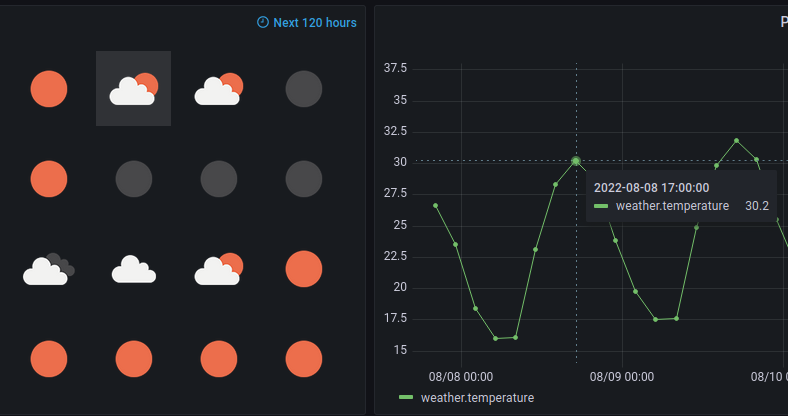
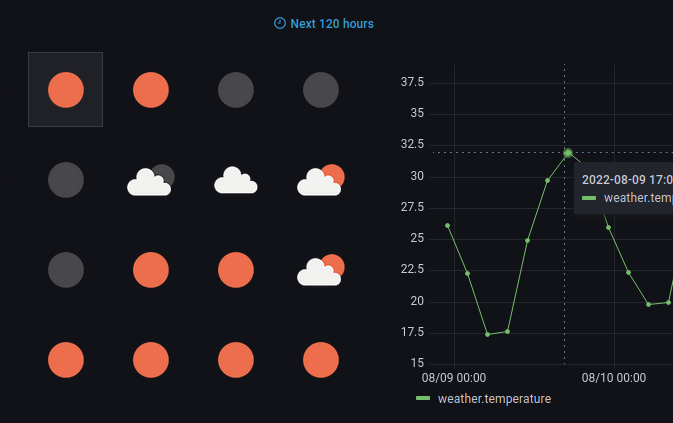
Improve shared crosshair (#53)
* Add border

* Improve and fix shared crosshair

diff --git a/src/DynamicImagePanel.tsx b/src/DynamicImagePanel.tsx
@@ -31,6 +31,7 @@ interface Value {
   icon: string;
   alt: string;
   backgroundColor: string;
+  borderColor: string;
   link?: string | undefined;
   tooltip?: string | undefined;
   overlay?: string | number | undefined;
@@ -87,7 +88,7 @@ export function DynamicImagePanel(props: Props) {
   const [hooverTime, setHooverTime] = useState<number | undefined>();
   const { eventBus } = usePanelContext();
   useEffect(() => {
-    const setHighlightedSlice = (event: DataHoverEvent) => {
+    const setHighlightTime = (event: DataHoverEvent) => {
       const rowIndex = event.payload?.rowIndex as number;
       const timeField: Field | undefined = getTimeField(event.payload?.data?.fields);
       let time = undefined;
@@ -97,13 +98,13 @@ export function DynamicImagePanel(props: Props) {
       setHooverTime(time);
     };
 
-    const resetHighlightedSlice = (event: DataHoverClearEvent) => {
+    const resetHighlightTime = (event: DataHoverClearEvent) => {
       setHooverTime(undefined);
     };
 
     const subs = new Subscription();
-    subs.add(eventBus.getStream(DataHoverEvent).subscribe({ next: setHighlightedSlice }));
-    subs.add(eventBus.getStream(DataHoverClearEvent).subscribe({ next: resetHighlightedSlice }));
+    subs.add(eventBus.getStream(DataHoverEvent).subscribe({ next: setHighlightTime }));
+    subs.add(eventBus.getStream(DataHoverClearEvent).subscribe({ next: resetHighlightTime }));
 
     return () => {
       subs.unsubscribe();
@@ -166,9 +167,11 @@ export function DynamicImagePanel(props: Props) {
       ? getFieldIndex(options.open_url.metric_field, data.series[0].fields, data.series[0])
       : -1;
 
+  // To not mess up with tooltip
+  let hoover_time_index = getTimeFieldIndex(data.series[0].fields);
+
   // Find time field for tooltip (if no tooltip or if it doesn't include time, use icon field as we don't care about values)
-  let time_index =
-    options.tooltip && options.tooltip_include_date ? getTimeFieldIndex(data.series[0].fields) : icon_index;
+  let time_index = options.tooltip && options.tooltip_include_date ? hoover_time_index : icon_index;
   if (time_index === -1) {
     console.error('Missing time field from data for tooltip');
     throw new Error("Can't find time field for tooltip.");
@@ -216,16 +219,19 @@ export function DynamicImagePanel(props: Props) {
   let values: Value[] = [];
   for (let i = 0; i < max; i++) {
     let backgroundColor = '#00000000';
-    if (hooverTime !== undefined) {
-      let currentTime = data.series[0].fields[time_index].values.get(i);
+    let borderColor = '#00000000';
+    if (hooverTime !== undefined && hoover_time_index > -1) {
+      let currentTime = data.series[0].fields[hoover_time_index].values.get(i);
       let nextTime = undefined;
       if (i < max - 1) {
-        nextTime = data.series[0].fields[time_index].values.get(i + 1);
+        nextTime = data.series[0].fields[hoover_time_index].values.get(i + 1);
       }
       if (currentTime <= hooverTime && nextTime === undefined) {
-        backgroundColor = options.shared_cross_hair.backgroundHighlight;
+        backgroundColor = options.shared_cross_hair.backgroundColor;
+        borderColor = options.shared_cross_hair.borderColor;
       } else if (currentTime <= hooverTime && nextTime !== undefined && hooverTime < nextTime) {
-        backgroundColor = options.shared_cross_hair.backgroundHighlight;
+        backgroundColor = options.shared_cross_hair.backgroundColor;
+        borderColor = options.shared_cross_hair.borderColor;
       }
     }
 
@@ -264,6 +270,7 @@ export function DynamicImagePanel(props: Props) {
         icon: data.series[0].fields[icon_index].values.get(i),
         alt: data.series[0].fields[alt_index].values.get(i),
         backgroundColor: backgroundColor,
+        borderColor: borderColor,
         tooltip: t,
         link: link_value,
         overlay: overlay_value,
@@ -275,6 +282,7 @@ export function DynamicImagePanel(props: Props) {
         icon: data.series[0].fields[icon_index].values.get(i),
         alt: data.series[0].fields[alt_index].values.get(i),
         backgroundColor: backgroundColor,
+        borderColor: borderColor,
         link: link_value,
         overlay: overlay_value,
         underline: underline_value,
@@ -337,6 +345,7 @@ export function DynamicImagePanel(props: Props) {
             underline_binding_values_are_numbers={underline_binding_are_numbers}
             underline_binding_value={value.underline_binding}
             backgroundColor={value.backgroundColor}
+            borderColor={value.borderColor}
           />
         </div>
       );
@@ -384,6 +393,7 @@ export function DynamicImagePanel(props: Props) {
             underline_binding_values_are_numbers={underline_binding_are_numbers}
             underline_binding_value={value.underline_binding}
             backgroundColor={value.backgroundColor}
+            borderColor={value.borderColor}
           />
         );
       })}

diff --git a/src/Image.tsx b/src/Image.tsx
@@ -41,8 +41,10 @@ interface ImageProps {
   underline_binding_value: string | number | undefined;
   /** Clickable link **/
   link: string | undefined;
-  /** Highlight (change background alpha for shared crosshair **/
+  /** Highlight background color (change background alpha for shared crosshair) **/
   backgroundColor: string;
+  /** Highlight border color (shared crosshair) **/
+  borderColor: string;
 }
 
 function handleError(e) {
@@ -89,6 +91,7 @@ function findBindingColorFromString(value: string, binding: Bindings): string {
  * @param ow Width of the overlay
  * @param overlay_color Color of overlay
  * @param backgroundColor Color of the image background
+ * @param borderColor Border color of the image
  */
 function createImage(
   h: string,
@@ -101,14 +104,22 @@ function createImage(
   oh: string,
   ow: string,
   overlay_color: string | undefined,
-  backgroundColor: string
+  backgroundColor: string,
+  borderColor: string
 ) {
   return (
-    <div style={{ height: h, width: w, position: 'relative' }}>
+    <div
+      style={{
+        height: h,
+        width: w,
+        position: 'relative',
+        backgroundColor: backgroundColor,
+        border: borderColor + ' 1px solid',
+      }}
+    >
       <img
         className={'image'}
         style={{
-          backgroundColor: backgroundColor,
           pointerEvents: 'auto',
         }}
         title={tooltip}
@@ -153,6 +164,7 @@ export function Image(props: ImageProps) {
     underline_binding_value,
     link,
     backgroundColor,
+    borderColor,
   } = props;
 
   let w = width + 'px';
@@ -211,10 +223,36 @@ export function Image(props: ImageProps) {
   return (
     <div className={'div-container'} style={{ width: w, overflow: 'hidden' }}>
       {link === undefined ? (
-        createImage(h, w, tooltip, url, alt, overlay_value, cl + ' ' + va, oh, ow, overlay_color, backgroundColor)
+        createImage(
+          h,
+          w,
+          tooltip,
+          url,
+          alt,
+          overlay_value,
+          cl + ' ' + va,
+          oh,
+          ow,
+          overlay_color,
+          backgroundColor,
+          borderColor
+        )
       ) : (
         <a href={link} target={'_blank'} rel={'noreferrer noopener'} style={{ height: '100%' }}>
-          {createImage(h, w, tooltip, url, alt, overlay_value, cl + ' ' + va, oh, ow, overlay_color, backgroundColor)}
+          {createImage(
+            h,
+            w,
+            tooltip,
+            url,
+            alt,
+            overlay_value,
+            cl + ' ' + va,
+            oh,
+            ow,
+            overlay_color,
+            backgroundColor,
+            borderColor
+          )}
         </a>
       )}
       {underline_value !== undefined && (

diff --git a/src/module.tsx b/src/module.tsx
@@ -96,12 +96,19 @@ export const plugin = new PanelPlugin<DynamicImageOptions>(DynamicImagePanel).se
       category: ['Image options'],
     })
     .addColorPicker({
-      path: 'shared_cross_hair.backgroundHighlight',
-      name: 'Background highlight',
+      path: 'shared_cross_hair.backgroundColor',
+      name: 'Background highlight color',
       description:
         'Background color to use for shared crosshair. Note that the actual image should have' +
         'transparency as background for this feature to work.',
       defaultValue: '#FFFFFF10',
+      category: ['Shared crosshair support'],
+    })
+    .addColorPicker({
+      path: 'shared_cross_hair.borderColor',
+      name: 'Border highlight color',
+      description: 'Border color to use for shared crosshair.',
+      defaultValue: '#FFFFFF20',
       category: ['Shared crosshair support'],
     })
     .addBooleanSwitch({

diff --git a/src/types.ts b/src/types.ts
@@ -84,7 +84,8 @@ export interface Slideshow {
 }
 
 export interface SharedCrossSupport {
-  backgroundHighlight: string;
+  backgroundColor: string;
+  borderColor: string;
 }
 
 /**

diff --git a/CHANGELOG.md b/CHANGELOG.md
@@ -2,8 +2,8 @@
 
 ## 2.6.0
 
-- Partial support (it can only receive events) for "shared crosshair". Image background will change for the configured
-colored (default to #FFFFFF10). Note that the actual image should have transparency. ([#16](https://github.com/Dalvany/dalvany-image-panel/issues/16)).
+- Partial support (it can only receive events) for "shared crosshair". Image background and border will according to
+the configured colores (default to #FFFFFF10 for background and #FFFFFF20 for border). ([#16](https://github.com/Dalvany/dalvany-image-panel/issues/16)).
 
 ## 2.5.0
 

diff --git a/README.md b/README.md
@@ -44,7 +44,8 @@ Options that allow to choose how the image will be displayed :
 
 ![configuration panel](https://github.com/Dalvany/dalvany-image-panel/raw/master/src/img/configuration_shared_crosshair.png)
 
-- Background highlight : the color to use as background image for shared crosshair (default to white with transparency)
+- Background highlight color : the color to use as background image for shared crosshair (default to white with transparency)
+- Border highlight color : the border color to use for shared crosshair.
 
 ## Slideshow options
 
